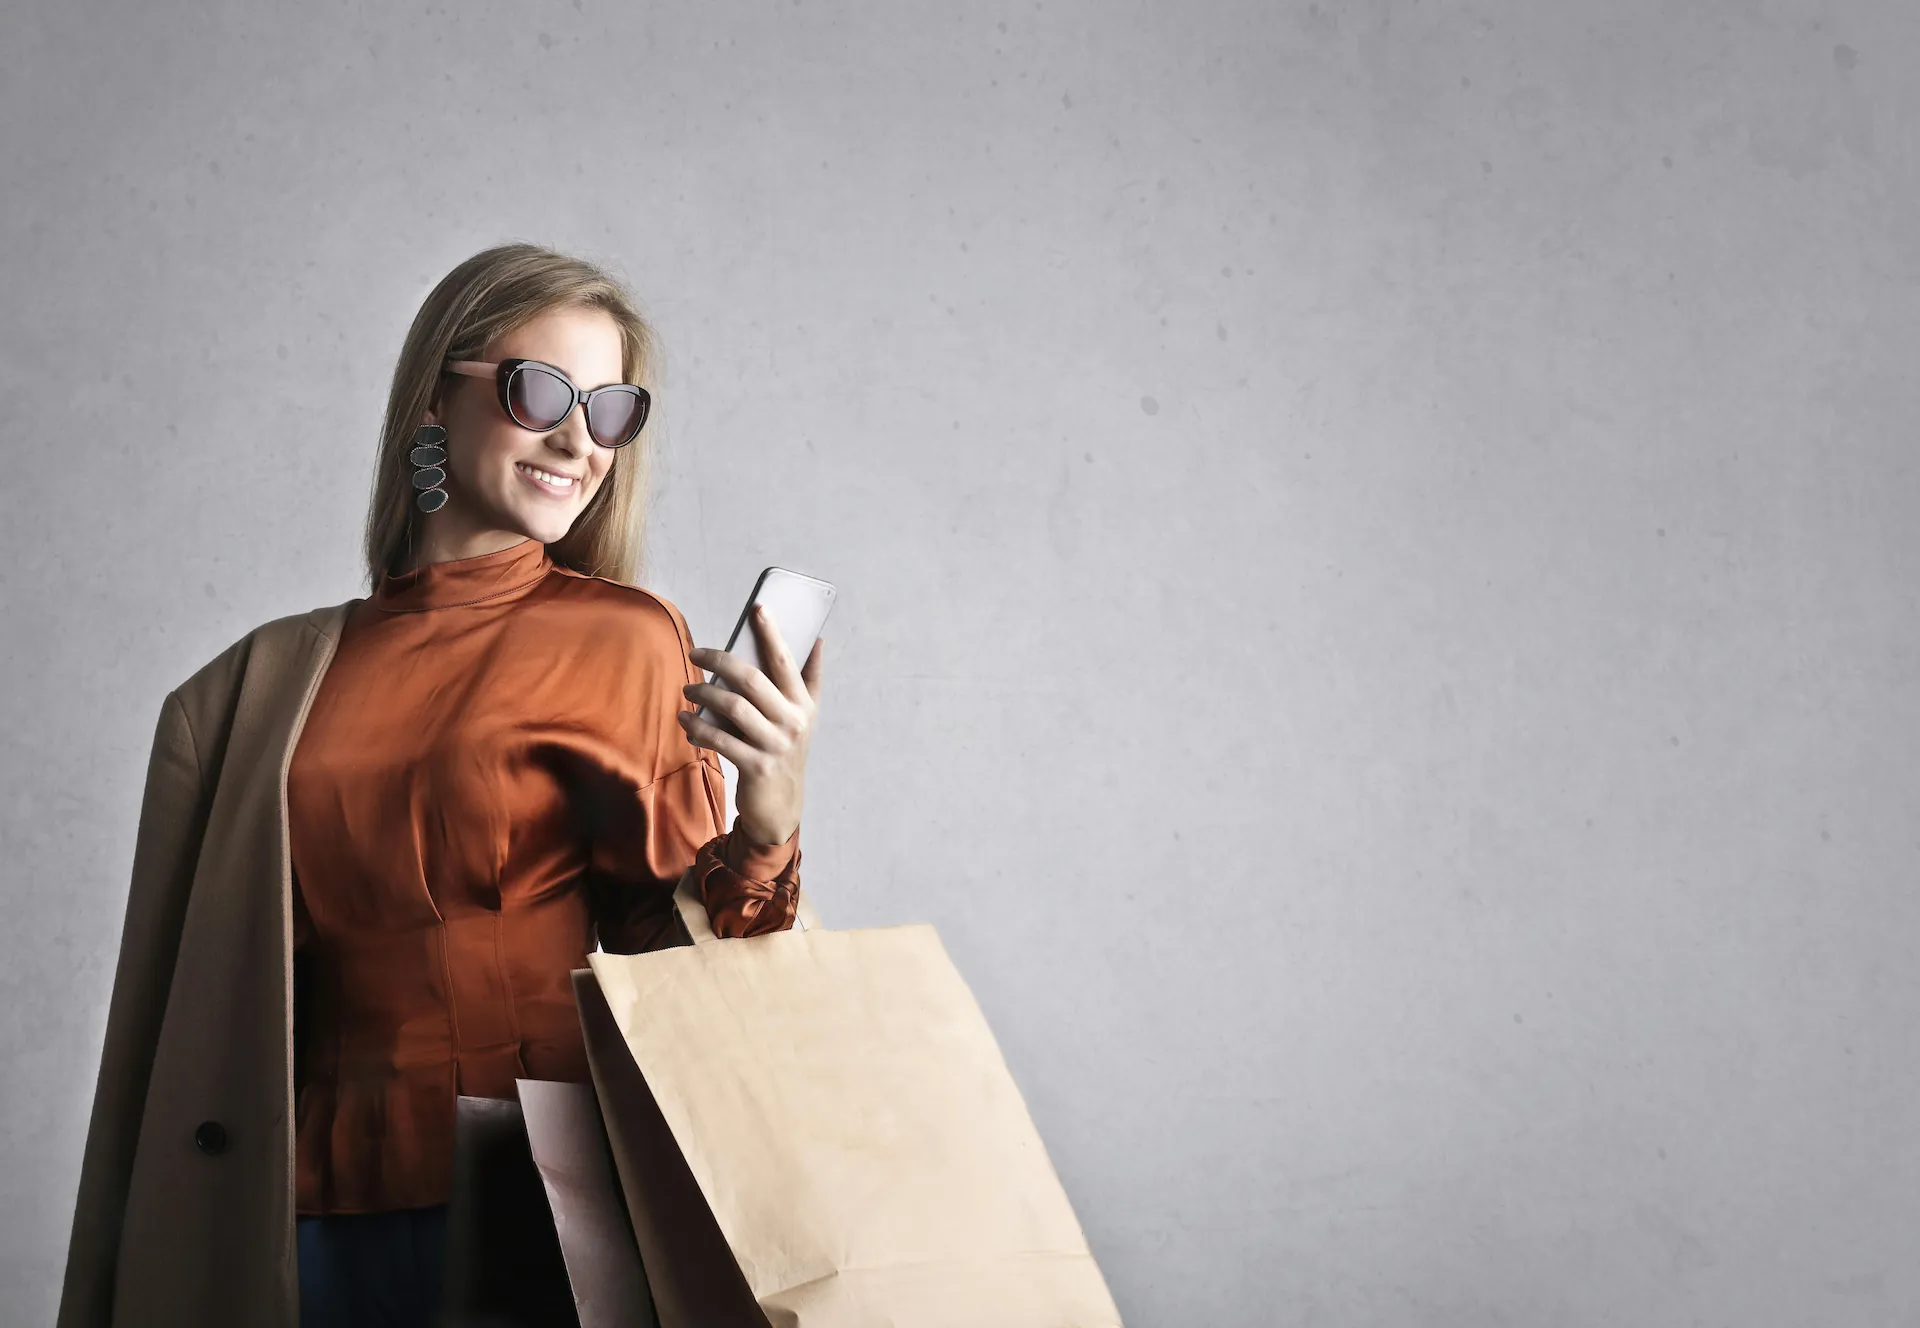
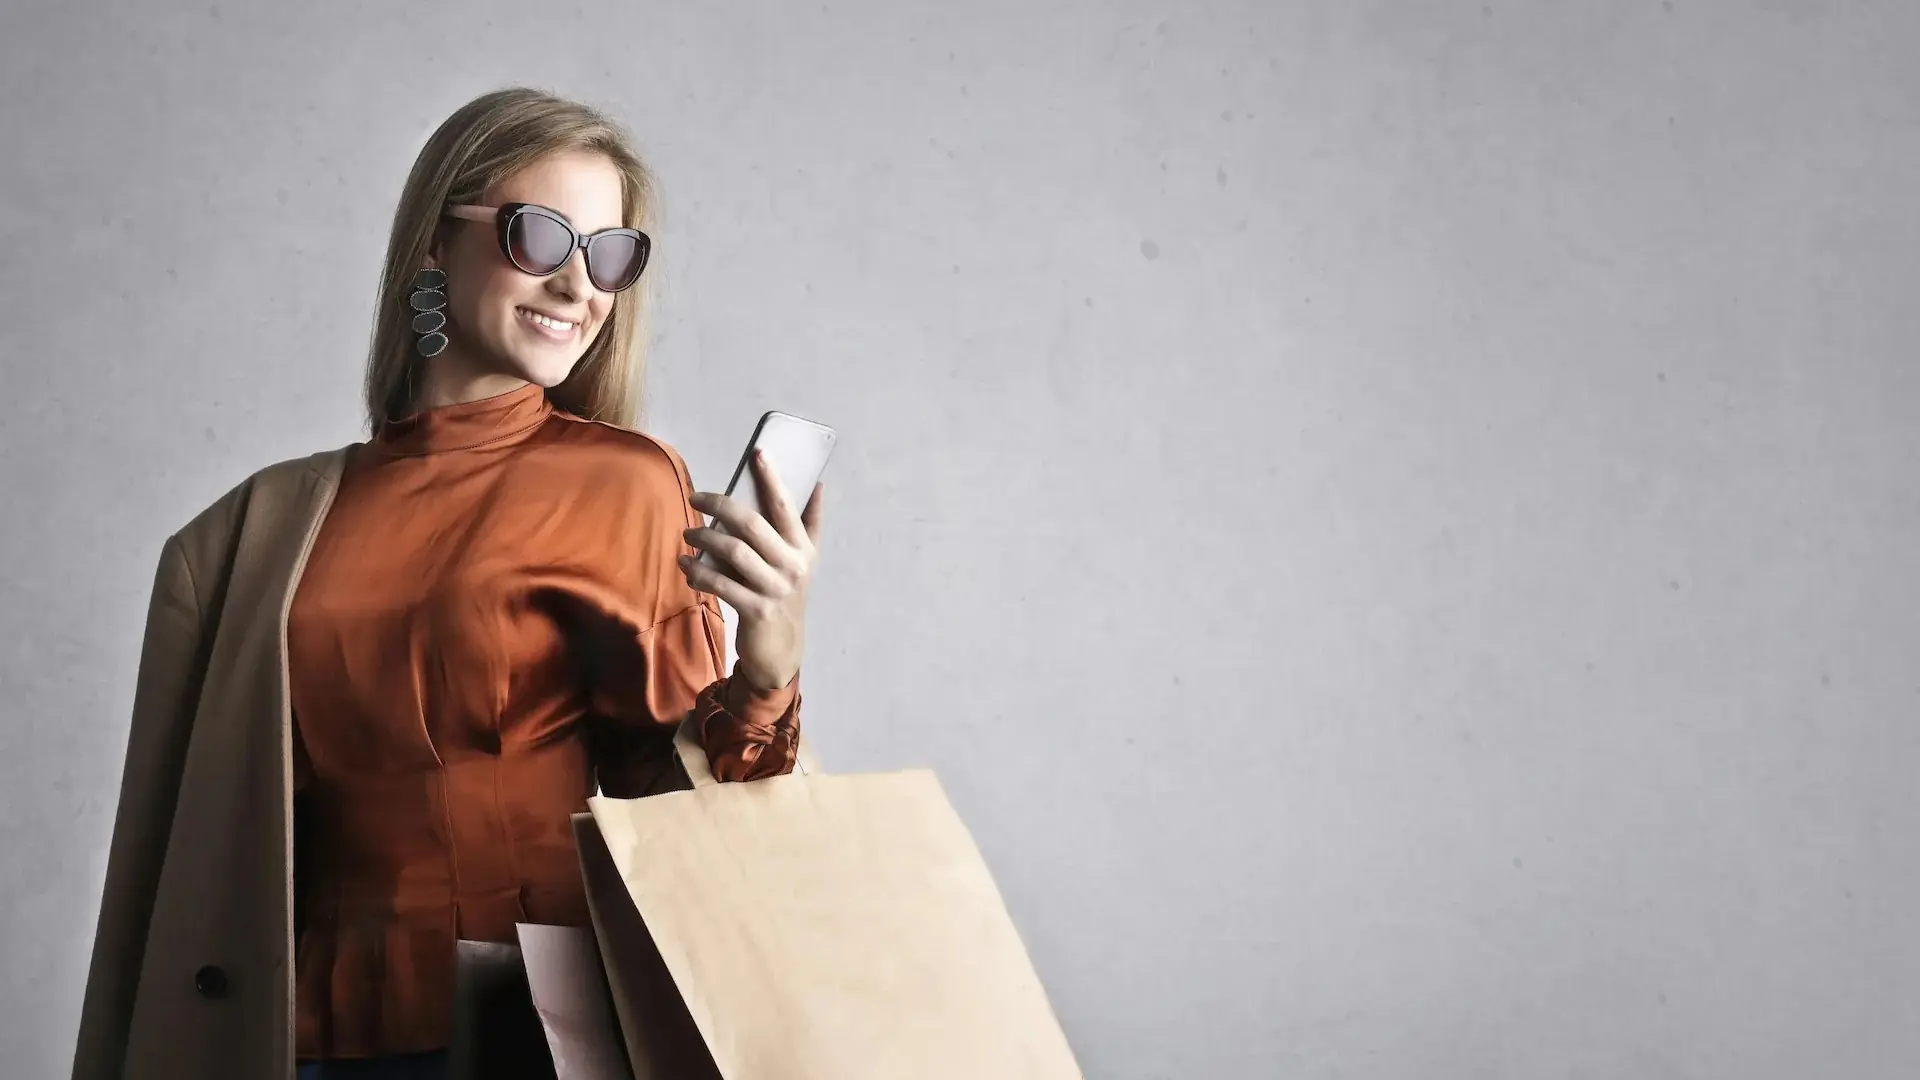
Update MainCarousel adding photos and home index styles

Changed region(s): [[0.0625, 0.0611, 0.4375, 0.6111], [0.0312, 0.6417, 0.5938, 1.0], [0.1562, 0.6722, 0.1875, 0.7333]]

diff --git a/frontend/src/shared/components/Navbar.tsx b/frontend/src/shared/components/Navbar.tsx
@@ -70,90 +70,10 @@ const Navbar = () => {
   }, [query, dispatch, lastSearch])
 
   return (
-    <header className='relative w-full shadow z-30'>
-      {/* Primary nav */}
-      <div className='flex justify-between items-center gap-4 px-2 bg-primary text-primary-foreground sm:px-10 2xl:px-40'>
-        <div className='shrink-0'>
-          <a href='/'>
-            <img src='/img/wardo-logo2.png' className='size-[70px]' alt='Wardo logo' />
-          </a>
-        </div>
-
-        <div
-          className='flex items-center relative grow'
-        >
-          <div className='flex relative items-center w-full rounded md:focus-within:border-red-500'>
-            <Input
-              ref={searchInputRef}
-              type='text'
-              placeholder={
-                isMobile ? '' : 'Buscar producto, categoría, marca...'
-              }
-              className='bg-white text-black border-blue-dark border-none rounded-2xl text-xs active:border-blue-dark placeholder:text-blue-dark/50 md:min-w-[400px] md:text-sm'
-              onChange={(e) => setInputSearch(e.target.value)}
-              value={inputSearch}
-              onKeyDown={(e) => {
-                if (e.key === 'Enter' && inputSearch !== '') {
-                  handleSearch(inputSearch)
-                  searchInputRef.current?.blur()
-                }
-              }}
-            />
-            {!isMobile && (
-              <Button 
-                className='absolute right-0 bg-mustard-primary rounded-l-none rounded-r-2xl cursor-pointer hover:bg-mustard-secondary'
-                onClick={() => {
-                  if (inputSearch !== '') {
-                    handleSearch(inputSearch)
-                  }
-                }}
-              >
-                <HiSearch />
-              </Button>
-            )}
-          </div>
-        </div>
-
-        {/* Settings and Cart */}
-        <div className='flex justify-center items-center gap-1 h-full '>
-          {isMobile ? (
-            <Button
-              variant='border'
-              className={`cursor-pointer px-1 ${
-                mobileMenuOpen ? 'bg-accent text-black' : ''
-              }`}
-              size={isMobile ? 'xs' : 'default'}
-              onClick={() => setMobileMenuOpen(!mobileMenuOpen)}
-            >
-              <HiBars3 className='size-6' />
-            </Button>
-          ) : (
-            <Settings />
-          )}
-          <Link to={ROUTES.CART} className='flex items-center justify-center'>
-            <Button
-              variant='border'
-              className='cursor-pointer px-1 shrink-0 relative size-full'
-              size={isMobile ? 'xs' : 'default'}
-              
-            >
-              <HiShoppingCart className='size-6' />
-              {/* Cart items number */}
-              {!isMobile && cartItems.length > 0 && (
-                <span
-                className='absolute bottom-[1px] right-1  text-[0.6rem] font-bold text-white bg-mustard-primary size-3 rounded flex items-center justify-center'
-                >
-                  {cartItems.length}
-                </span>
-              )}
-            </Button>
-          </Link>
-        </div>
-      </div>
-
+    <header className='relative w-full shadow z-30 bg-primary'>
       {/* Secondary nav */}
       <div
-        className='relative flex justify-center items-center px-2 bg-white text-secondary-foreground h-10 sm:px-10 2xl:px-40'
+        className='relative flex justify-center items-center px-2 bg-white text-secondary-foreground py-2 sm:px-10 2xl:max-w-[1920px] 2xl:mx-auto'
       >
         {!isMobile && (
           <div className='flex justify-between items-center w-full h-full'>
@@ -264,6 +184,89 @@ const Navbar = () => {
         {isMobile && <AddressesModal />}
         
       </div>
+
+      {/* Primary nav */}
+      <div className='flex justify-between items-center gap-4 px-2 bg-primary text-primary-foreground sm:px-10  2xl:max-w-[1920px] 2xl:mx-auto'>
+        <div className='w-[60px] sm:w-[100px] shrink-0'>
+          <a href='/'>
+            <img src='/img/wardo-logo2.png' className='size-full' alt='Wardo logo' />
+          </a>
+        </div>
+
+        <div
+          className='flex items-center relative grow max-w-2/3'
+        >
+          <div className='flex relative items-center w-full rounded md:focus-within:border-red-500'>
+            <Input
+              ref={searchInputRef}
+              type='text'
+              placeholder={
+                isMobile ? '' : 'Buscar producto, categoría, marca...'
+              }
+              className='bg-white text-black border-blue-dark px-6 py-2 border-none rounded-full text-xs active:border-blue-dark placeholder:text-blue-dark/50 sm:py-6 md:min-w-[400px] md:text-sm'
+              onChange={(e) => setInputSearch(e.target.value)}
+              value={inputSearch}
+              onKeyDown={(e) => {
+                if (e.key === 'Enter' && inputSearch !== '') {
+                  handleSearch(inputSearch)
+                  searchInputRef.current?.blur()
+                }
+              }}
+            />
+            {!isMobile && (
+              <Button
+                className='absolute right-0 bg-mustard-primary h-full rounded-l-none rounded-r-full cursor-pointer overflow-hidden hover:bg-mustard-secondary'
+                onClick={() => {
+                  if (inputSearch !== '') {
+                    handleSearch(inputSearch)
+                  }
+                }}
+                aria-label='Search button'
+              >
+                <HiSearch className='size-6' />
+              </Button>
+            )}
+          </div>
+        </div>
+
+        {/* Settings and Cart */}
+        <div className='flex justify-center items-center gap-1 h-full '>
+          {isMobile ? (
+            <Button
+              variant='border'
+              className={`cursor-pointer px-1 ${
+                mobileMenuOpen ? 'bg-accent text-black' : ''
+              }`}
+              size={isMobile ? 'xs' : 'default'}
+              onClick={() => setMobileMenuOpen(!mobileMenuOpen)}
+            >
+              <HiBars3 className='size-6' />
+            </Button>
+          ) : (
+            <Settings />
+          )}
+          <Link to={ROUTES.CART} className='flex items-center justify-center'>
+            <Button
+              variant='border'
+              className='cursor-pointer px-1 shrink-0 relative size-full'
+              size={isMobile ? 'xs' : 'default'}
+              
+            >
+              <HiShoppingCart className='size-5 sm:size-10' />
+              {/* Cart items number */}
+              {!isMobile && cartItems.length > 0 && (
+                <span
+                className='absolute bottom-[1px] right-1  text-[0.6rem] font-bold text-white bg-mustard-primary size-3 rounded flex items-center justify-center'
+                >
+                  {cartItems.length}
+                </span>
+              )}
+            </Button>
+          </Link>
+        </div>
+      </div>
+
+      
     {mobileMenuOpen && isMobile && <MenuMobile onClose={() => setMobileMenuOpen(false)} />}
     </header>
   )

diff --git a/frontend/src/pages/home/MainCarousel.tsx b/frontend/src/pages/home/MainCarousel.tsx
@@ -1,4 +1,5 @@
 import { CATEGORIES } from '@/consts/productCategories'
+import { cn } from '@/lib/utils'
 import { Button } from '@/shared/components/ui/button'
 import {
   Carousel,
@@ -14,16 +15,25 @@ import { useNavigate } from 'react-router'
 
 const images = [
   {
-    src: '/img/car1.webp',
-    title: 'Encuentra productos únicos para cada momento de tu vida',
+    title: 'Lo mejor en tecnología -50% de descuento',
+    textClasses: '',
+    src: '/img/carousel1.webp',
+    srcSm: '/img/carousel1short.webp',
+    category: 'Portátiles y computadores',
   },
   {
-    src: '/img/car2.webp',
-    title: 'Revisa las colecciones de las mejores marcas de moda',
+    title: 'Colecciones de moda del 2025',
+    textClasses: '',
+    src: '/img/carousel2.webp',
+    srcSm: '/img/carousel2short.webp',
+    category: 'Ropa de moda',
   },
   {
-    src: '/img/car3.webp',
-    title: 'Encuentra productos únicos para cada momento de tu vida',
+    title: 'Productos únicos para tu hogar',
+    textClasses: '',
+    src: '/img/carousel3.webp',
+    srcSm: '/img/carousel3short.webp',
+    category: 'Decoración de hogar',
   },
 ]
 
@@ -36,7 +46,7 @@ const MainCarousel = () => {
   const navigate = useNavigate()
 
   return (
-    <div className='w-full relative max-w-[1920px] xl:h-[70vh] mx-auto'>
+    <div className='w-full relative max-w-[1920px] mx-auto'>
       <Carousel
         plugins={[
           Autoplay({
@@ -55,26 +65,30 @@ const MainCarousel = () => {
         }} // resume when not hovering
         isAutoplaying={isAutoplaying}
       >
-        <CarouselContent className='max-h-[70vh]'>
+        <CarouselContent className='max-w-screen'>
           {images.map((img, i: number) => (
             <CarouselItem key={i}>
               <div className='relative overflow-hidden size-full'>
-                <div className='absolute size-full top-0 left-0 bg-black/30 z-20'></div>
+                <div className='absolute size-full top-0 left-0  z-20'></div>
 
                 <img
-                  src={img.src}
+                  src={isMobile ? img.src : img.srcSm }
                   alt={`img ${i + 1}`}
                   className='size-full max-h-[305px] sm:max-h-none object-cover'
                 />
 
-                <div className='absolute top-[50%] flex flex-col gap-2 justify-center px-12 w-full z-30 sm:top-[50%] sm:items-center xl:top-2/3'>
-                  <h1 className='text-sm font-semibold max-w-[70%] text-white sm:title sm:max-w-full'>
-                    {img.title}
+                <div className={cn('absolute top-1/2 -translate-y-1/2 flex flex-col gap-1 justify-center pl-10 w-1/2 z-30 sm:items-center xl:px-40',
+                  img.textClasses,
+                )}>
+                  <p className='text-xs self-start text-red-500 font-semibold sm:text-xl'>{img.category}</p>
+
+                  <h1 className='text-sm font-bold self-start  leading-4 text-black sm:text-2xl sm:leading-tight sm:max-w-full xl:text-4xl 2xl:text-5xl'>
+                    {img.title.toUpperCase()}
                   </h1>
 
                   <Button
                     size={isMobile ? 'xs' : 'default'}
-                    className='w-24 sm:w-auto sm:self-start lg:self-center z-30'
+                    className='w-24 mt-2 sm:w-auto sm:self-start z-30'
                     onClick={() => {
                       if (i === 0 || i === 2)
                         document
@@ -104,6 +118,10 @@ const MainCarousel = () => {
         />
         <CarouselNext isButtonShown={isButtonShown} className='text-primary' />
       </Carousel>
+
+      {/* <div className='absolute top-1/2 left-1/2 -translate-x-1/2'>
+        <h1 className='text-6xl text-white font-bold'>Nuevas colecciones de moda</h1>
+      </div> */}
     </div>
   )
 }

diff --git a/frontend/src/pages/home/index.tsx b/frontend/src/pages/home/index.tsx
@@ -21,7 +21,7 @@ const HomePage = () => {
 
       <div>
         {/* Benefits banner */}
-        <div className='flex justify-evenly items-center bg-blue-200 text-blue-dark font-bold py-2 h-12 2xl:max-w-[1920px] 2xl:mx-auto'>
+        <div className='flex justify-evenly items-center bg-gradient-to-b from-amber-200 via-yellow-100 to-amber-200 text-blue-dark font-bold py-2 h-12 2xl:max-w-[1920px] 2xl:mx-auto'>
           <div className='hidden sm:flex sm:items-center sm:gap-2'>
             <HiFire className='size-4 sm:size-8' />
             <p className='text-sm'>Productos en tendencia</p>
@@ -61,8 +61,8 @@ const HomePage = () => {
           )}
 
           {/* Desktop: Related and popular section  Mobile: Category carousel*/}
-          <section className='relative p-4 gradient-accent 2xl:px-10'>
-            <div className='size-full 2xl:pb-10  sm:rounded-none sm:shadow-none'>
+          <section className='relative p-4 bg-white  sm:bg-accent 2xl:px-10'>
+            <div className='size-full py-20  sm:rounded-none sm:shadow-none'>
               {isMobile ? (
                 <CategoryMobile
                   header='Ofertas populares 🔥'
@@ -75,7 +75,7 @@ const HomePage = () => {
           </section>
 
           {/* Separator Brands showcase */}
-          <div className='py-10 space-y-10'>
+          <div className='pb-10 space-y-10'>
             <Separator className='data-[orientation=horizontal]:w-[90%] mx-auto'/>
 
             <div className='flex flex-col items-center justify-center text-primary'>

diff --git a/frontend/src/pages/home/Showcase.tsx b/frontend/src/pages/home/Showcase.tsx
@@ -36,7 +36,7 @@ const Showcase = ({ brand, phrase }: ShowcaseProps) => {
 
   if (products.length === 0 || isLoading || isError) {
     return (
-      <div className='showcase bg-white min-h-[500px] w-full p-4 rounded border shadow-sm'>
+      <div className='showcase bg-white min-h-[500px] w-full p-4 rounded-full border shadow-sm'>
         <Skeleton className='h-3/4 w-full' />
 
         <div className='flex items-center justify-center gap-2 h-1/4 bg-white p-4'>
@@ -50,11 +50,13 @@ const Showcase = ({ brand, phrase }: ShowcaseProps) => {
   }
 
   return (
-    <div className='flex flex-col showcase p-4 rounded border shadow-sm bg-white justify-between'>  
-      <div className='flex flex-col'>
+    <div className='flex flex-col h-min p-4 rounded-2xl border shadow-sm bg-white '>  
+      <div className='relative flex flex-col min-h-[50px]'>
         <h3 className='font-medium'>{phrase}</h3>
         
-        <BrandBadge brand={brand}/>
+        <div className='relative -bottom-6'>
+          <BrandBadge brand={brand}/>
+        </div>
       </div>
 
       <div className='flex items-center justify-center h-3/5'>

diff --git a/frontend/src/pages/home/ProductsCarousel.tsx b/frontend/src/pages/home/ProductsCarousel.tsx
@@ -115,8 +115,8 @@ const ProductsCarousel = ({
           })}
         </CarouselContent>
 
-        <CarouselNext isButtonShown={isButtonShown} className='translate-x-5 text-primary'/>
-        <CarouselPrevious isButtonShown={isButtonShown} className='-translate-x-5 text-primary'/>
+        <CarouselNext isButtonShown={isButtonShown} className='translate-x-5 text-primary z-50'/>
+        <CarouselPrevious isButtonShown={isButtonShown} className='-translate-x-5 text-primary z-50'/>
       </Carousel>
     </div>
   )

diff --git a/frontend/src/shared/components/Settings.tsx b/frontend/src/shared/components/Settings.tsx
@@ -38,7 +38,7 @@ const Settings = () => {
         onMouseLeave={() => setSettingsOpen(false)}
       >
         <Button variant='border' className='cursor-pointer border-clean px-1 relative size-full '>
-          <IoSettingsSharp className='size-6' />
+          <IoSettingsSharp className='size-10' />
 
           {/* Small triangle */}
           <div className='absolute bottom-0 left-1/2 -translate-x-1/2 size-0 border-l-4 border-r-4 border-t-4 border-transparent border-t-white group-hover:hidden'></div>

diff --git a/frontend/src/shared/components/Layout.tsx b/frontend/src/shared/components/Layout.tsx
@@ -49,7 +49,7 @@ const Layout = () => {
   return (
     <div className='min-h-screen flex flex-col bg-secondary min-w-[320px]'>
       <Navbar />
-      <main className='flex flex-col flex-1 mt-[1px] bg-white md:bg-secondary'>
+      <main className='flex flex-col flex-1  bg-white md:bg-secondary'>
         <Outlet />
       </main>
 

diff --git a/frontend/src/pages/home/TopCategory.tsx b/frontend/src/pages/home/TopCategory.tsx
@@ -5,7 +5,7 @@ const TopCategory = () => {
   return (
     <div className='relative grid grid-cols-2 gap-8'>
       <ProductsCarousel
-        className='w-full'
+        className='w-full rounded-xl'
         header='Relacionado con tus búsquedas...'
         category={CATEGORIES.PORTATILES.ORIGINAL}
         basis='lg:basis-1/2'
